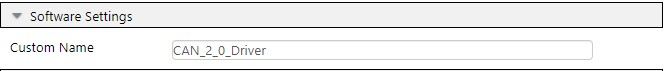
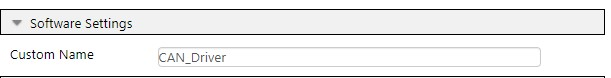
addressed review comments

diff --git a/dspic33ck-curiosity-can.X/mcc_generated_files/can/can1.h b/dspic33ck-curiosity-can.X/mcc_generated_files/can/can1.h
@@ -54,127 +54,127 @@
            This allows defining a structure with application specific name using 
            the 'Custom Name' field. Application specific name allows the API Portability.
 */
-extern const struct CAN_INTERFACE CAN_2_0_Driver;
+extern const struct CAN_INTERFACE CAN_Driver;
 /**
  * @ingroup  candriver
  * @brief    This macro defines the Custom Name for \ref CAN1_Initialize API
  */
-#define CAN_2_0_Driver_Initialize CAN1_Initialize
+#define CAN_Driver_Initialize CAN1_Initialize
 /**
  * @ingroup  candriver
  * @brief    This macro defines the Custom Name for \ref CAN1_Deinitialize API
  */
-#define CAN_2_0_Driver_Deinitialize CAN1_Deinitialize
+#define CAN_Driver_Deinitialize CAN1_Deinitialize
 /**
  * @ingroup  candriver
  * @brief    This macro defines the Custom Name for \ref CAN1_OperationModeSet API
  */
-#define CAN_2_0_Driver_OperationModeSet CAN1_OperationModeSet
+#define CAN_Driver_OperationModeSet CAN1_OperationModeSet
 /**
  * @ingroup  candriver
  * @brief    This macro defines the Custom Name for \ref CAN1_OperationModeGet API
  */
-#define CAN_2_0_Driver_OperationModeGet CAN1_OperationModeGet
+#define CAN_Driver_OperationModeGet CAN1_OperationModeGet
 /**
  * @ingroup  candriver
  * @brief    This macro defines the Custom Name for \ref CAN1_Receive API
  */
-#define CAN_2_0_Driver_Receive CAN1_Receive
+#define CAN_Driver_Receive CAN1_Receive
 /**
  * @ingroup  candriver
  * @brief    This macro defines the Custom Name for \ref CAN1_ReceiveMessageGet API
  */
-#define CAN_2_0_Driver_ReceiveMessageGet CAN1_ReceiveMessageGet
+#define CAN_Driver_ReceiveMessageGet CAN1_ReceiveMessageGet
 /**
  * @ingroup  candriver
  * @brief    This macro defines the Custom Name for \ref CAN1_Transmit API
  */
-#define CAN_2_0_Driver_Transmit CAN1_Transmit
+#define CAN_Driver_Transmit CAN1_Transmit
 /**
  * @ingroup  candriver
  * @brief    This macro defines the Custom Name for \ref CAN1_TransmitFIFOStatusGet API
  */
-#define CAN_2_0_Driver_TransmitFIFOStatusGet CAN1_TransmitFIFOStatusGet
+#define CAN_Driver_TransmitFIFOStatusGet CAN1_TransmitFIFOStatusGet
 /**
  * @ingroup  candriver
  * @brief    This macro defines the Custom Name for \ref CAN1_IsBusOff API
  */
-#define CAN_2_0_Driver_IsBusOff CAN1_IsBusOff
+#define CAN_Driver_IsBusOff CAN1_IsBusOff
 /**
  * @ingroup  candriver
  * @brief    This macro defines the Custom Name for \ref CAN1_IsTxErrorPassive API
  */
-#define CAN_2_0_Driver_IsTxErrorPassive CAN1_IsTxErrorPassive
+#define CAN_Driver_IsTxErrorPassive CAN1_IsTxErrorPassive
 /**
  * @ingroup  candriver
  * @brief    This macro defines the Custom Name for \ref CAN1_IsTxErrorWarning API
  */
-#define CAN_2_0_Driver_IsTxErrorWarning CAN1_IsTxErrorWarning
+#define CAN_Driver_IsTxErrorWarning CAN1_IsTxErrorWarning
 /**
  * @ingroup  candriver
  * @brief    This macro defines the Custom Name for \ref CAN1_IsTxErrorActive API
  */
-#define CAN_2_0_Driver_IsTxErrorActive CAN1_IsTxErrorActive
+#define CAN_Driver_IsTxErrorActive CAN1_IsTxErrorActive
 /**
  * @ingroup  candriver
  * @brief    This macro defines the Custom Name for \ref CAN1_IsRxErrorPassive API
  */
-#define CAN_2_0_Driver_IsRxErrorPassive CAN1_IsRxErrorPassive
+#define CAN_Driver_IsRxErrorPassive CAN1_IsRxErrorPassive
 /**
  * @ingroup  candriver
  * @brief    This macro defines the Custom Name for \ref CAN1_IsRxErrorWarning API
  */
-#define CAN_2_0_Driver_IsRxErrorWarning CAN1_IsRxErrorWarning
+#define CAN_Driver_IsRxErrorWarning CAN1_IsRxErrorWarning
 /**
  * @ingroup  candriver
  * @brief    This macro defines the Custom Name for \ref CAN1_IsRxErrorActive API
  */
-#define CAN_2_0_Driver_IsRxErrorActive CAN1_IsRxErrorActive
+#define CAN_Driver_IsRxErrorActive CAN1_IsRxErrorActive
 /**
  * @ingroup  candriver
  * @brief    This macro defines the Custom Name for \ref CAN1_Sleep API
  */
-#define CAN_2_0_Driver_Sleep CAN1_Sleep
+#define CAN_Driver_Sleep CAN1_Sleep
 /**
  * @ingroup  candriver
  * @brief    This macro defines the Custom Name for \ref CAN1_ReceivedMessageCountGet API
  */
-#define CAN_2_0_Driver_ReceivedMessageCountGet CAN1_ReceivedMessageCountGet
+#define CAN_Driver_ReceivedMessageCountGet CAN1_ReceivedMessageCountGet
 /**
  * @ingroup  candriver
  * @brief    This macro defines the Custom Name for \ref CAN1_InvalidMessageCallbackRegister API
  */
-#define CAN_2_0_Driver_InvalidMessageCallbackRegister CAN1_InvalidMessageCallbackRegister
+#define CAN_Driver_InvalidMessageCallbackRegister CAN1_InvalidMessageCallbackRegister
 /**
  * @ingroup  candriver
  * @brief    This macro defines the Custom Name for \ref CAN1_BusWakeUpActivityCallbackRegister API
  */
-#define CAN_2_0_Driver_BusWakeUpActivityCallbackRegister CAN1_BusWakeUpActivityCallbackRegister
+#define CAN_Driver_BusWakeUpActivityCallbackRegister CAN1_BusWakeUpActivityCallbackRegister
 /**
  * @ingroup  candriver
  * @brief    This macro defines the Custom Name for \ref CAN1_BusErrorCallbackRegister API
  */
-#define CAN_2_0_Driver_BusErrorCallbackRegister CAN1_BusErrorCallbackRegister
+#define CAN_Driver_BusErrorCallbackRegister CAN1_BusErrorCallbackRegister
 /**
  * @ingroup  candriver
  * @brief    This macro defines the Custom Name for \ref CAN1_ModeChangeCallbackRegister API
  */
-#define CAN_2_0_Driver_ModeChangeCallbackRegister CAN1_ModeChangeCallbackRegister
+#define CAN_Driver_ModeChangeCallbackRegister CAN1_ModeChangeCallbackRegister
 /**
  * @ingroup  candriver
  * @brief    This macro defines the Custom Name for \ref CAN1_SystemErrorCallbackRegister API
  */
-#define CAN_2_0_Driver_SystemErrorCallbackRegister CAN1_SystemErrorCallbackRegister
+#define CAN_Driver_SystemErrorCallbackRegister CAN1_SystemErrorCallbackRegister
 /**
  * @ingroup  candriver
  * @brief    This macro defines the Custom Name for \ref CAN1_TxAttemptCallbackRegister API
  */
-#define CAN_2_0_Driver_TxAttemptCallbackRegister CAN1_TxAttemptCallbackRegister
+#define CAN_Driver_TxAttemptCallbackRegister CAN1_TxAttemptCallbackRegister
 /**
  * @ingroup  candriver
  * @brief    This macro defines the Custom Name for \ref CAN1_RxBufferOverFlowCallbackRegister API
  */
-#define CAN_2_0_Driver_RxBufferOverFlowCallbackRegister CAN1_RxBufferOverFlowCallbackRegister
+#define CAN_Driver_RxBufferOverFlowCallbackRegister CAN1_RxBufferOverFlowCallbackRegister
 
 
 /**

diff --git a/dspic33ck-curiosity-can.X/main.c b/dspic33ck-curiosity-can.X/main.c
@@ -53,8 +53,8 @@ int main(void)
     bool msgStatus;
     SYSTEM_Initialize();
     
-    CAN_2_0_Driver.RxBufferOverFlowCallbackRegister(&CAN_RxBufferOverFlowCallback);
-    CAN_2_0_Driver.BusWakeUpActivityCallbackRegister(&CAN_BusWakeUpActivityCallback);
+    CAN_Driver.RxBufferOverFlowCallbackRegister(&CAN_RxBufferOverFlowCallback);
+    CAN_Driver.BusWakeUpActivityCallbackRegister(&CAN_BusWakeUpActivityCallback);
     canPreviousRxState = CAN_ERROR_NONE;
     canPreviousTxState = CAN_ERROR_NONE;
     
@@ -65,9 +65,9 @@ int main(void)
         msgStatus = false;
         
         /*See if there is any data in RX FIFO*/
-        if(CAN_2_0_Driver.ReceivedMessageCountGet() > 0) 
+        if(CAN_Driver.ReceivedMessageCountGet() > 0) 
         {
-            CAN_2_0_Driver.Receive(&canMsg);
+            CAN_Driver.Receive(&canMsg);
             rxOverflowStatus = false;
             LED_GREEN_SetHigh();
             printf("\r\n[*] Received Message Frame:\r\n---------\r\n");
@@ -83,7 +83,7 @@ int main(void)
             /*Transmit back the received message*/
             printf("\r\n[*] Transmitting Message Frame:\r\n---------\r\n");
             PrintCanMsgObjStruct(&canMsg);
-            msgStatus = CAN_2_0_Driver.Transmit(CAN1_TX_TXQ, &canMsg);
+            msgStatus = CAN_Driver.Transmit(CAN1_TX_TXQ, &canMsg);
             if(msgStatus == CAN_TX_MSG_REQUEST_SUCCESS)
             {
                 txWriteFail = false;
@@ -161,7 +161,6 @@ static void PrintCanMsgObjStruct(struct CAN_MSG_OBJ *rxCanMsg)
     printf("[*] DLC: 0x%X\r\n", CAN_DlcToDataBytesGet(rxCanMsg->field.dlc));
     printf("[*] IdType: %s\r\n", rxCanMsg->field.idType == CAN_FRAME_STD ? "CAN_FRAME_STD" : "CAN_FRAME_EXT");
     printf("[*] FrameType: %s\r\n", rxCanMsg->field.frameType == CAN_FRAME_DATA ? "CAN_FRAME_DATA" : "CAN_FRAME_RTR");
-    printf("[*] BRS: %s\r\n", rxCanMsg->field.brs == CAN_NON_BRS_MODE ? "CAN_NON_BRS_MODE" : "CAN_BRS_MODE");
     printf("[*] FormateType: %s\r\n", rxCanMsg->field.formatType == CAN_2_0_FORMAT ? "CAN_2_0_FORMAT" : "CAN_FD_FORMAT");
     printf("------------------------------------------------------------------\r\n");
 }
@@ -172,7 +171,7 @@ static void CheckTxErrors(void)
     /**TX Errors**/
     
     /*If node reached TX Passive Error state*/
-    if(CAN_2_0_Driver.IsTxErrorActive())
+    if(CAN_Driver.IsTxErrorActive())
     {
         if(canPreviousTxState != CAN_ERROR_PASSIVE)
         {
@@ -182,7 +181,7 @@ static void CheckTxErrors(void)
     }
     
     /*If node reached TX Warning state*/
-    else if(CAN_2_0_Driver.IsTxErrorWarning())
+    else if(CAN_Driver.IsTxErrorWarning())
     {
         if(canPreviousTxState != CAN_ERROR_WARNING)
         {
@@ -192,7 +191,7 @@ static void CheckTxErrors(void)
     }
     
     /*If node reached TX Active Error state*/
-    else if(CAN_2_0_Driver.IsTxErrorActive())
+    else if(CAN_Driver.IsTxErrorActive())
     {
         if(canPreviousTxState != CAN_ERROR_ACTIVE)
         {
@@ -223,7 +222,7 @@ static void CheckRxErrors(void)
     /**RX Errors */
     
     /*If node reached RX Passive Error state*/
-    if(CAN_2_0_Driver.IsRxErrorPassive())
+    if(CAN_Driver.IsRxErrorPassive())
     {
         if(canPreviousRxState != CAN_ERROR_PASSIVE)
         {
@@ -233,7 +232,7 @@ static void CheckRxErrors(void)
     }
     
     /*If node reached RX Warning state*/
-    else if(CAN_2_0_Driver.IsRxErrorWarning())
+    else if(CAN_Driver.IsRxErrorWarning())
     {
         if(canPreviousRxState != CAN_ERROR_WARNING)
         {
@@ -243,7 +242,7 @@ static void CheckRxErrors(void)
     }
     
     /*If node reached RX Active Error state*/
-    else if(CAN_2_0_Driver.IsRxErrorActive())
+    else if(CAN_Driver.IsRxErrorActive())
     {
         if(canPreviousRxState != CAN_ERROR_ACTIVE)
         {

diff --git a/dspic33ck-curiosity-can.X/mcc_generated_files/system/src/interrupt.c b/dspic33ck-curiosity-can.X/mcc_generated_files/system/src/interrupt.c
@@ -49,14 +49,6 @@ void INTERRUPT_Initialize(void)
     // Priority: 1
     IPC11bits.DMTIP = 1;
     
-    // CND: Change Notification D
-    // Priority: 1
-    IPC18bits.CNDIP = 1;
-    
-    // CNE: Change Notification E
-    // Priority: 1
-    IPC19bits.CNEIP = 1;
-    
 }
 
 void INTERRUPT_Deinitialize(void)
@@ -64,6 +56,4 @@ void INTERRUPT_Deinitialize(void)
     //POR default value of priority
     IPC6bits.C1IP = 4;
     IPC11bits.DMTIP = 4;
-    IPC18bits.CNDIP = 4;
-    IPC19bits.CNEIP = 4;
 }

diff --git a/dspic33ck-curiosity-can.X/mcc_generated_files/system/traps.h b/dspic33ck-curiosity-can.X/mcc_generated_files/system/traps.h
@@ -54,7 +54,6 @@ enum TRAPS_ERROR_CODE
     TRAPS_ADDRESS_ERR = 2, /**< Address error Trap vector */
     TRAPS_MATH_ERR = 3, /**< Math Error Trap vector */
     TRAPS_HARD_ERR = 7, /**< Generic Hard Trap vector */
-    TRAPS_DAE_ERR = 9, /**< Generic Soft Trap vector */
     TRAPS_DOOVR_ERR = 10, /**< Generic Soft Trap vector */
     TRAPS_APLL_ERR = 11, /**< Generic Soft Trap vector */
     TRAPS_NVM_ERR = 12, /**< Generic Soft Trap vector */

diff --git a/dspic33ck-curiosity-can.X/mcc_generated_files/system/src/traps.c b/dspic33ck-curiosity-can.X/mcc_generated_files/system/src/traps.c
@@ -104,14 +104,6 @@ void ERROR_HANDLER _SoftTrapError(void)
       TRAPS_halt_on_error(TRAPS_DOOVR_ERR);
     }
 
-#ifdef _DAE
-    if(INTCON3bits.DAE == 1)
-    {
-      INTCON3bits.DAE = 0;  //Clear the trap flag
-      TRAPS_halt_on_error(TRAPS_DAE_ERR);
-    }
-
-#endif
     if(INTCON3bits.NAE == 1)
     {
       INTCON3bits.NAE = 0;  //Clear the trap flag

diff --git a/dspic33ck-curiosity-can.X/mcc_generated_files/can/src/can1.c b/dspic33ck-curiosity-can.X/mcc_generated_files/can/src/can1.c
@@ -81,7 +81,7 @@ enum CAN1_RX_FIFO_STATUS
 };
 
 // Section: Driver Interface
-const struct CAN_INTERFACE CAN_2_0_Driver = {
+const struct CAN_INTERFACE CAN_Driver = {
     .Initialize = CAN1_Initialize,
     .Deinitialize = CAN1_Deinitialize,
     .OperationModeSet = CAN1_OperationModeSet,

diff --git a/README.md b/README.md
@@ -50,7 +50,9 @@ CAN is configured in such a way that it ignores any messages other than above me
 **CAN Analyzer Tool Setup**
 
 - Configure CAN analyzer clock to 1 Mbps nominal bit-rate
-- Start the analyzer log and create CAN data frames with message ID 101(0x64), 102(0x65) and 103(0x66)
+- Create CAN data frame with message ID 101(0x64) with valid data length as per CAN 2.0 protocol (Eg. 0,1,2,3,4,5,6,7,8)
+- Similarly create CAN frames with ID 102(0x65), 103(0x66) with above mentioned valid data length
+- Start the analyzer log and send the frames
 
 ## Operation
 
@@ -80,7 +82,7 @@ This Project uses the driver code generated by **MCC-Melody**.
 **CAN Configuration**
 
 - CAN Configuration done in MCC Melody User Interface for this demo code. <br>
-- Custom name to `CAN_2_0_Driver` <br>
+- Custom name to `CAN_Driver` <br>
   ![custom name](images/can_custom_name.jpg)
 - Clock and Nominal Bit-Rate Settings: Set CAN clock to 20 MHz, nominal bit rate to 1Mbps and sample point to 80%<br>
   ![step1-step2](images/step1_step2.jpg)
